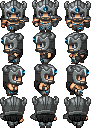
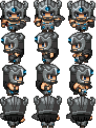
Update newgameMenu characterData

diff --git a/gameMenu.py b/gameMenu.py
@@ -58,23 +58,50 @@ def enterMenu(pygame, screen, font, timer):
             mode = 0
         # 清除畫面
         screen.fill((50, 50, 100))
-        #繪製
+        # 繪製
         for textData in textList:
             print_text(font, textData.x, textData.y,
                        textData.text, colors.white)
-        #print(textList[position].getTextSize())
+        # print(textList[position].getTextSize())
         pygame.draw.rect(screen, (100, 200, 100, 180),
                          Rect(textList[position].x, textList[position].y, (4 * 36), 50), 2)
         pygame.display.update()
 
-#新遊戲
+# 新遊戲
+
+
 def enterNewGame(pygame, screen, font, timer):
-    max = 3
+    font_small = pygame.font.Font("fonts/msjh.ttf", 24)
+    # max = 3
     mode = 0
     position = 0
     key_pressing = False
+    characterTypeList = getAllCharacterType(CharacterTypeData)
+    # print(characterType.name)
+    imageDataList = []
     textList = []
-    textList.append(TextData(100, 100, '新遊戲', colors.white))
+    textSmallList = []
+    startX = 100
+    startY = 100
+    characterTypeGroup = pygame.sprite.Group()
+    textList.append(TextData(100, 100, '請選擇角色', colors.white))
+    i = 0
+    for characterType in characterTypeList:
+        offsetX = 150 * i
+        gameRecordData = GameData(startX + offsetX ,startY ,3)
+        characterTypeGroup.add(CharacterSprite(gameRecordData, characterType))
+        textSmallList.append(TextData(startX + offsetX, startY +
+                                 100, characterType.name, colors.white))
+        textSmallList.append(TextData(startX + offsetX, startY + 130,
+                                 'HP:' + str(characterType.initHP), colors.white))
+        textSmallList.append(TextData(startX + offsetX, startY + 160,
+                                 '攻擊力:' + str(characterType.initAttack), colors.white))
+        i = i + 1
+        if i == 3:
+            startY = startY + 300
+            i = 0
+
+    max = len(textList)
     while True:
         print(position)
         timer.tick(30)
@@ -112,17 +139,24 @@ def enterNewGame(pygame, screen, font, timer):
             return position
         else:
             mode = 0
+        characterTypeGroup.update(ticks, 50)
         # 清除畫面
         screen.fill((50, 50, 100))
-        #繪製
+        characterTypeGroup.draw(screen)
+        # 繪製
         for textData in textList:
             print_text(font, textData.x, textData.y,
+                       textData.text, colors.white)
+        for textData in textSmallList:
+            print_text(font_small, textData.x, textData.y,
                        textData.text, colors.white)
         pygame.draw.rect(screen, (100, 200, 100, 180),
                          Rect(textList[position].x, textList[position].y, (4 * 36), 50), 2)
         pygame.display.update()
 
-#新遊戲
+# 載入遊戲
+
+
 def enterLoadGame(pygame, screen, font, timer):
     max = 3
     mode = 0
@@ -170,7 +204,7 @@ def enterLoadGame(pygame, screen, font, timer):
             mode = 0
         # 清除畫面
         screen.fill((50, 50, 100))
-        #繪製
+        # 繪製
         for textData in textList:
             print_text(font, textData.x, textData.y,
                        textData.text, colors.white)
@@ -178,15 +212,37 @@ def enterLoadGame(pygame, screen, font, timer):
                          Rect(textList[position].x, textList[position].y, (4 * 36), 50), 2)
         pygame.display.update()
 
-#排行榜
+# 排行榜
+
+
 def enterLoadRank(pygame, screen, font, timer):
     max = 3
     mode = 0
     position = 0
     key_pressing = False
     gameRecordList = getAllGameRecord()
+    # print sorted(gameRecordList, key=lambda gameRecordList: gameRecordList[].experience))
+    startX = 200
+    startY = 200
     textList = []
     textList.append(TextData(100, 100, '排行榜', colors.white))
+    textList.append(TextData(100, 150, '名稱', colors.white))
+    textList.append(TextData(300, 150, '角色', colors.white))
+    textList.append(TextData(550, 150, '等級', colors.white))
+    i = 0
+    for gameRecord in gameRecordList :
+        offsetY = 50 * i
+        i = i+1
+        textList.append(TextData(100, startY + offsetY, gameRecord.characterName, colors.white))
+
+    textList.append(TextData(300, 200, '我是角色名稱', colors.white))
+    textList.append(TextData(550, 200, str(
+        gameRecordList[0].experience), colors.white))
+    textList.append(TextData(550, 250, str(
+        gameRecordList[1].experience), colors.white))
+    textList.append(TextData(550, 300, str(
+        gameRecordList[2].experience), colors.white))
+
     max = len(gameRecordList)
     while True:
         print(position)
@@ -226,10 +282,8 @@ def enterLoadRank(pygame, screen, font, timer):
             mode = 0
         # 清除畫面
         screen.fill((50, 50, 100))
-        #繪製
+        # 繪製
         for textData in textList:
             print_text(font, textData.x, textData.y,
                        textData.text, colors.white)
-        pygame.draw.rect(screen, (100, 200, 100, 180),
-                         Rect(textList[position].x, textList[position].y, (4 * 36), 50), 2)
         pygame.display.update()

diff --git a/models.py b/models.py
@@ -1,6 +1,7 @@
 import pygame
 import random
 from pygame.locals import *
+#from sqliteHelper import *
 
 
 # CharacterSprite class extends pygame.sprite.Sprite
@@ -22,7 +23,7 @@ class CharacterSprite(pygame.sprite.Sprite):
         self.gameRecord = gameRecord
         self.characterTypeData = characterTypeData
         fileNmae = 'images/character/%s' % (characterTypeData.imageName)
-        self.load(fileNmae, 32, 32, 4)
+        self.load(fileNmae, 28, 32, 4)
         self.position = (gameRecord.currentX, gameRecord.currentY)
         self.direction = gameRecord.currentDirection
 
@@ -64,8 +65,10 @@ class CharacterSprite(pygame.sprite.Sprite):
 
         # build current frame only if it changed
         if self.frame != self.old_frame:
+            print(self.characterTypeData.imageName)
             frame_x = (self.frame % self.columns) * self.frame_width
             frame_y = (self.frame // self.columns) * self.frame_height
+            print(("%d %d %d %d" % (frame_x, frame_y, self.frame_width, self.frame_height)))
             rect = Rect(frame_x, frame_y, self.frame_width, self.frame_height)
             self.image = self.master_image.subsurface(rect)
             self.old_frame = self.frame
@@ -197,7 +200,14 @@ class GameRecordData():
         self.currentX = CurrentX
         self.currentY = CurrentY
         self.currentDirection = CurrentDirection
-
+    # def getChracterType():
+    #     return getCharacterTypedByID(self.characterTypeID)
+class GameData():
+    #為了選角用
+    def __init__(self, CurrentX, CurrentY, CurrentDirection):
+        self.currentX = CurrentX
+        self.currentY = CurrentY
+        self.currentDirection = CurrentDirection
 
 class MonsterData():
 

diff --git a/sqliteHelper.py b/sqliteHelper.py
@@ -9,7 +9,7 @@ def Connect():
     cursor.execute(
         "CREATE TABLE IF NOT EXISTS `rank` (id INTEGER PRIMARY KEY AUTOINCREMENT NOT NULL, name TEXT, time INTEGER)")
 
-def getAllCharacterType():
+def getAllCharacterType(self):
     Connect()
     cursor.execute("SELECT * FROM `CharacterType`")
     results = []

diff --git a/characterMenu.py b/characterMenu.py
@@ -1,0 +1,14 @@
+import itertools
+import sys
+import time
+import random
+import math
+import pygame
+import colors
+from utils import *
+from models import *
+
+
+    
+
+        
